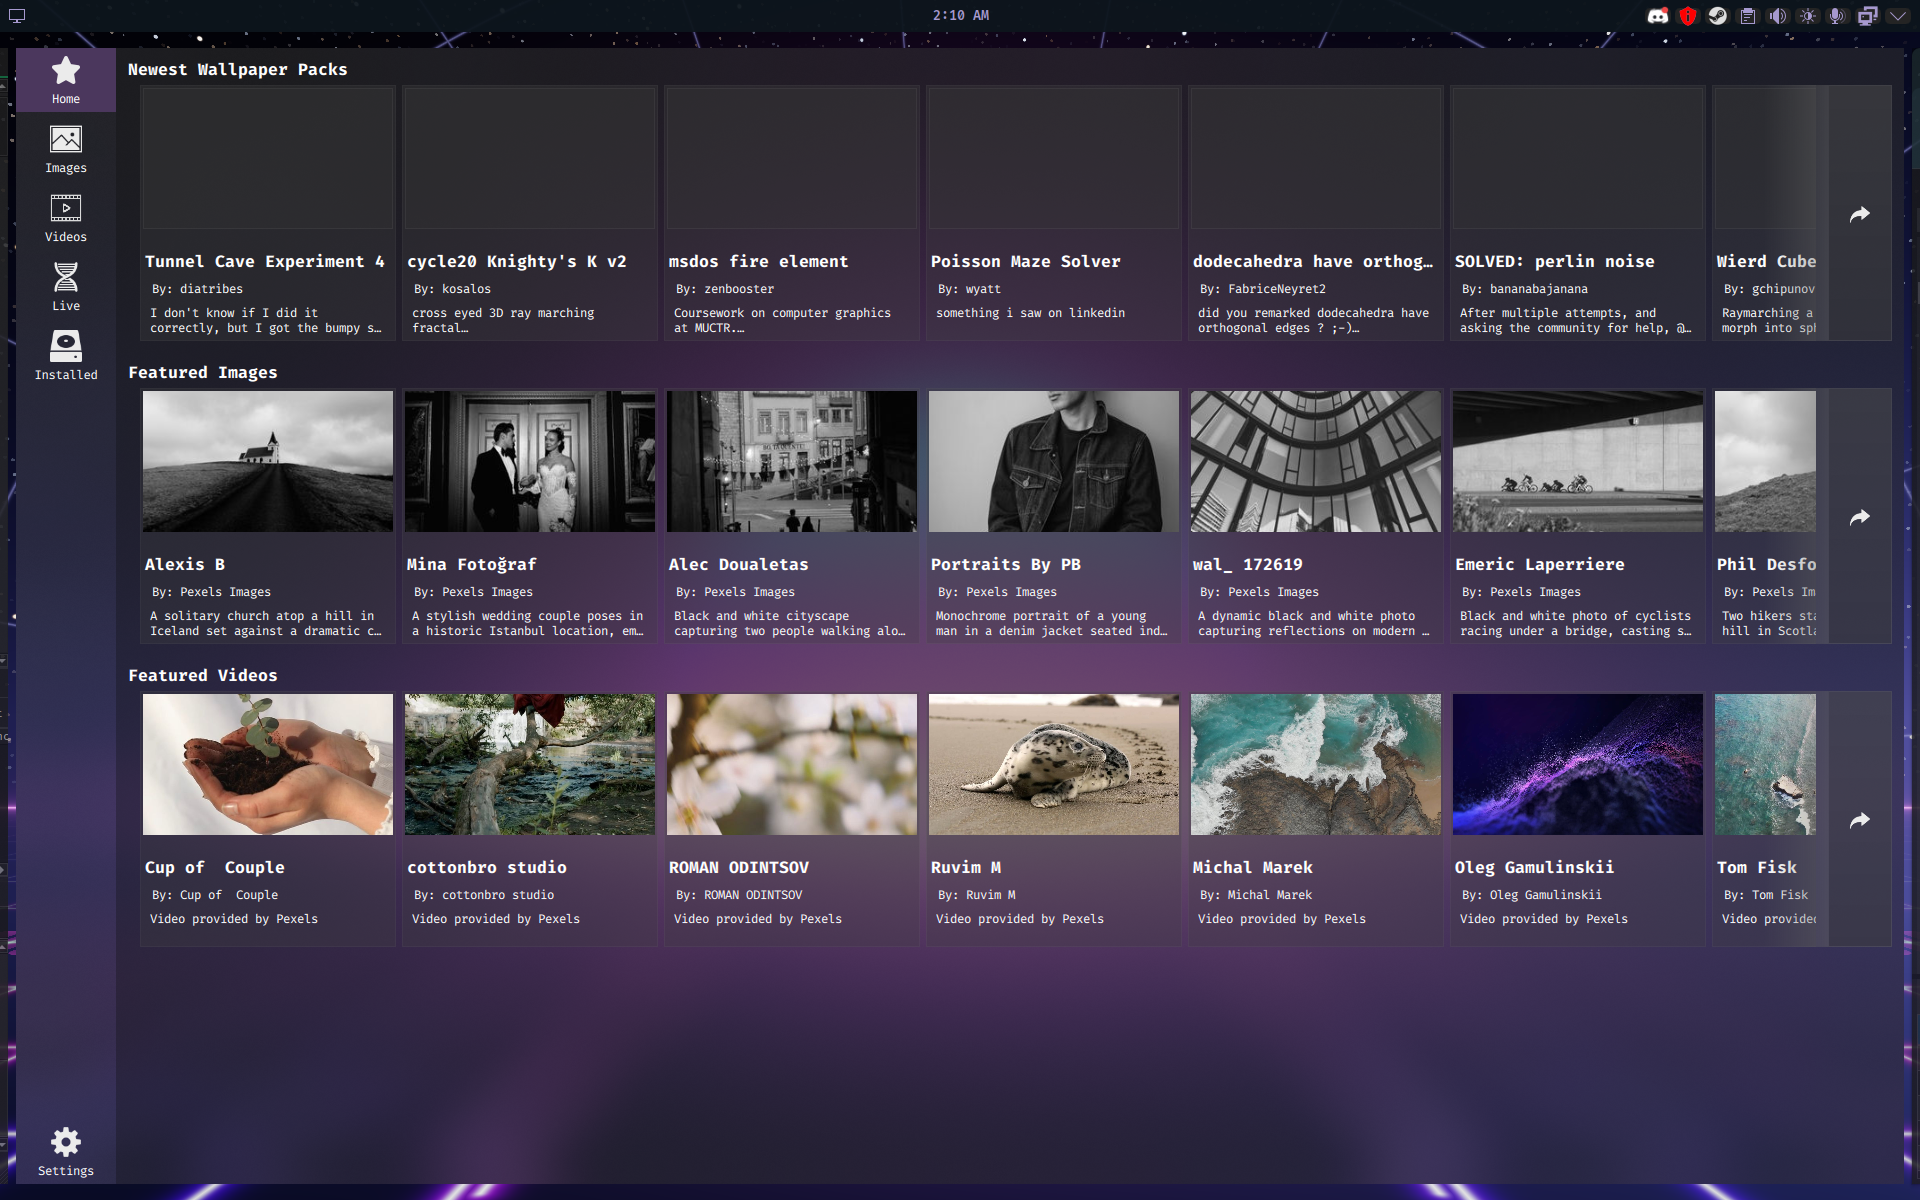
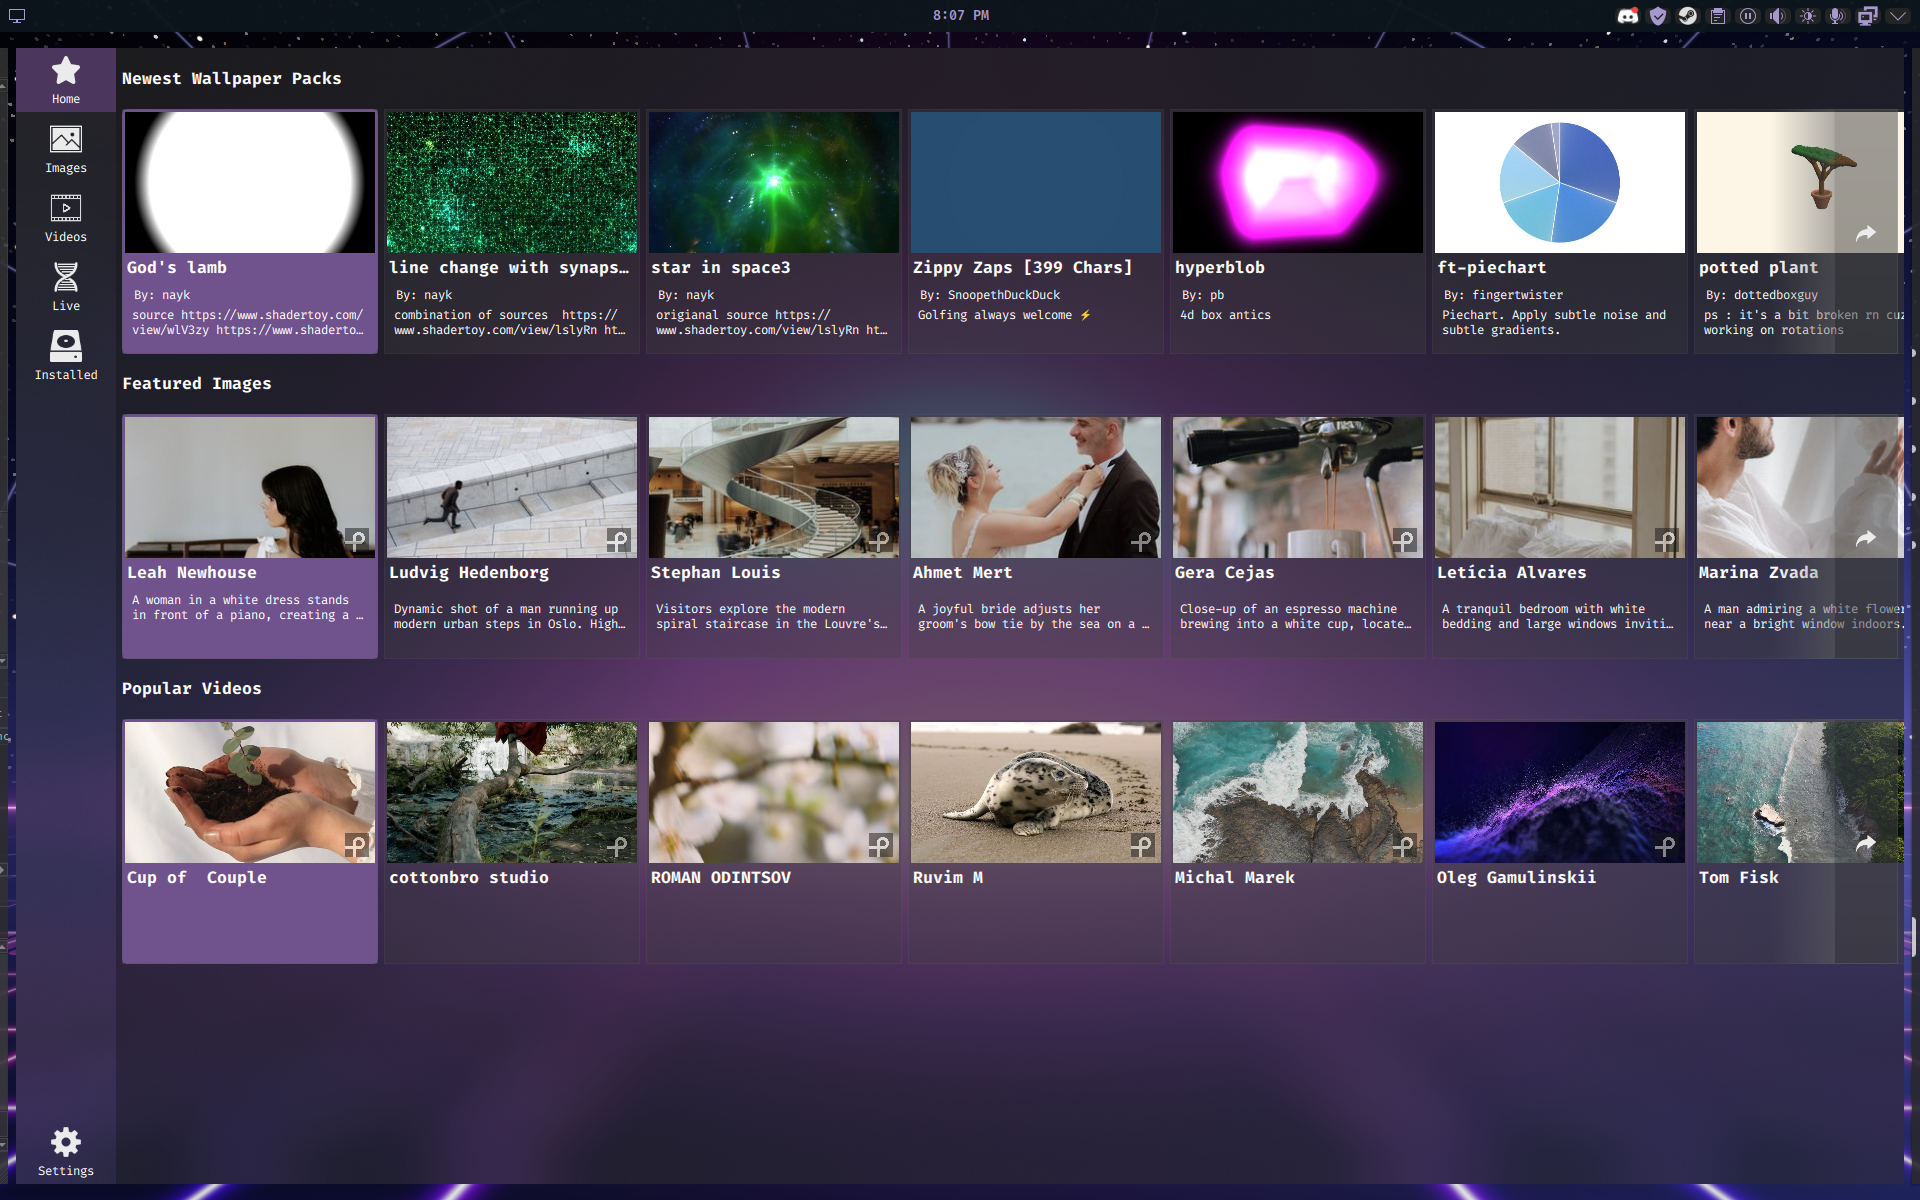
Added new screenshots

diff --git a/README.md b/README.md
@@ -21,7 +21,7 @@
             <img src="https://git.digitalartifex.dev/digitalartifex/komplex-hub/raw/branch/main/images/screenshots/screenshot_04_videos.png" />
         </td>
         <td>
-            <img src="" />
+            <img src="https://git.digitalartifex.dev/digitalartifex/komplex-hub/raw/branch/main/images/screenshots/screenshot_05_live.png" />
         </td>
     </tr>
     <tr>
